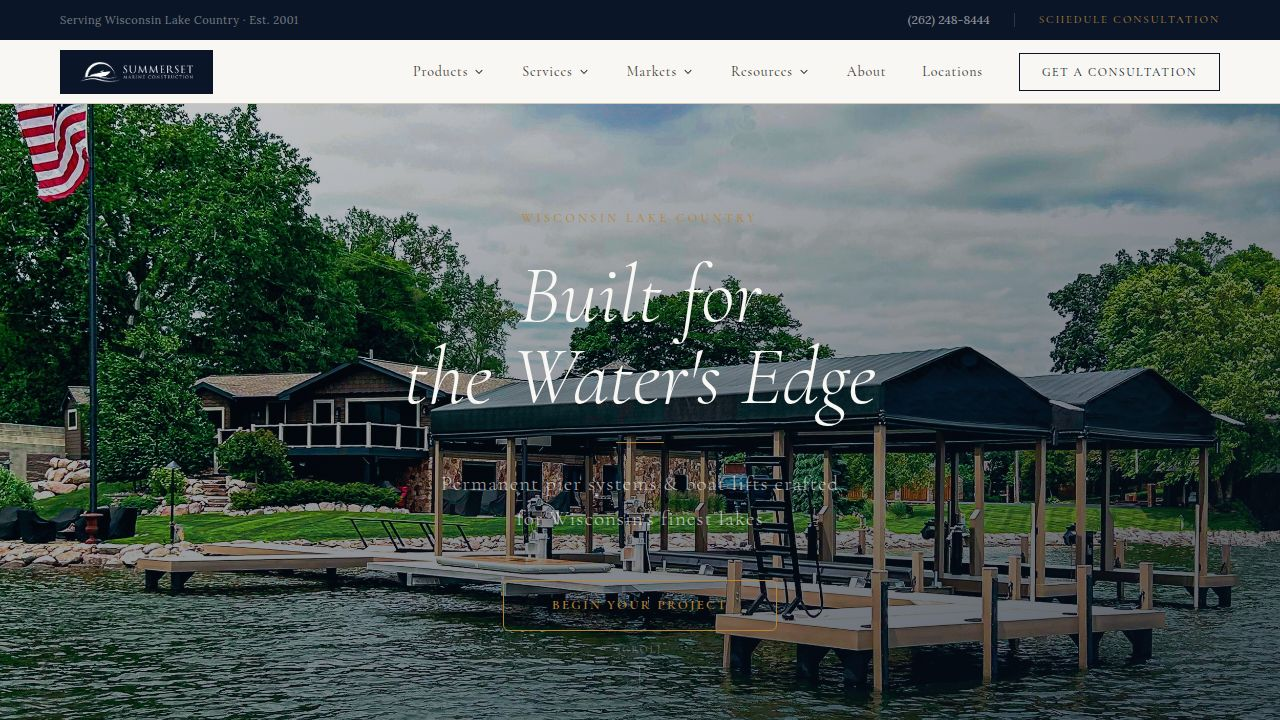
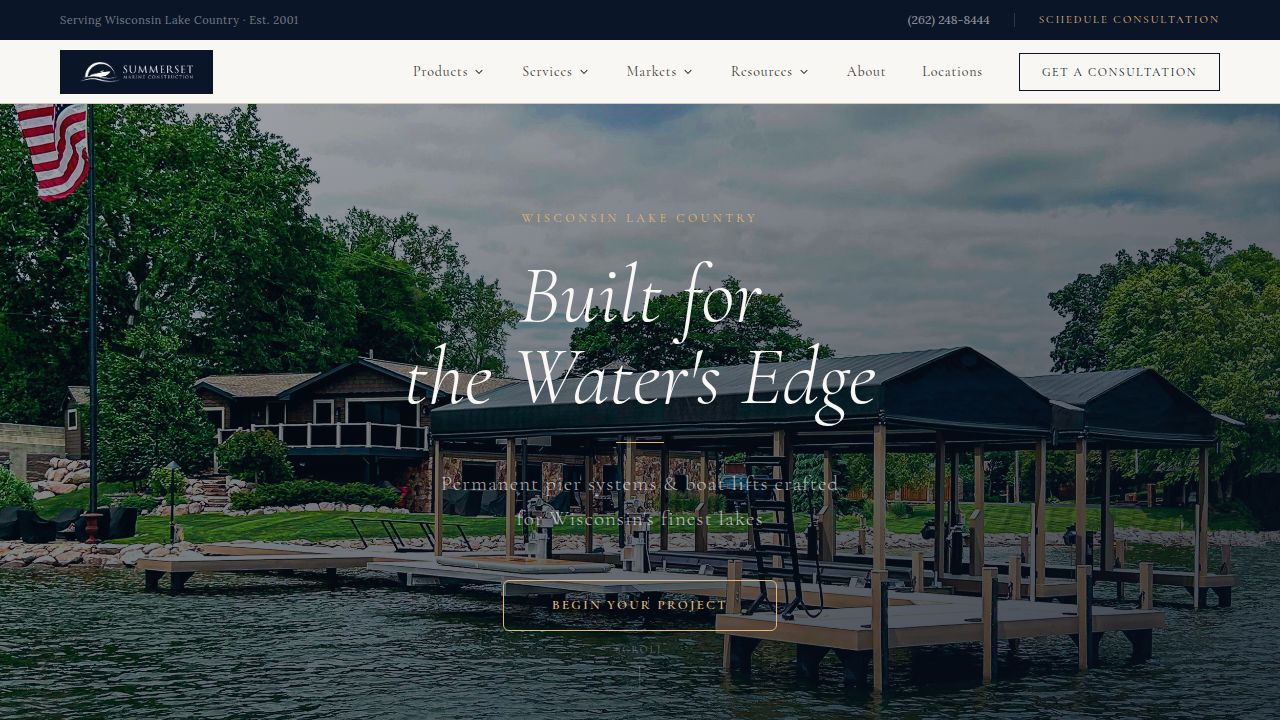
Add Google Reviews section to the website
Integrate Elfsight Google Reviews widget using environment variables.

Replit-Commit-Author: Agent
Replit-Commit-Session-Id: deab3bcd-a8cf-4099-8f03-b6609ab75af2
Replit-Commit-Checkpoint-Type: full_checkpoint
Replit-Commit-Event-Id: c97d79cd-ae3c-45bf-906b-d2676399f2b8
Replit-Commit-Screenshot-Url: https://storage.googleapis.com/screenshot-production-us-central1/0aebad9c-abc4-45a9-bc57-39a88c291de5/deab3bcd-a8cf-4099-8f03-b6609ab75af2/DXdJlIs
Replit-Helium-Checkpoint-Created: true

diff --git a/artifacts/summerset-marine/src/components/ui/GoogleReviews.tsx b/artifacts/summerset-marine/src/components/ui/GoogleReviews.tsx
@@ -1,0 +1,52 @@
+import { useEffect } from "react";
+import ContentPlaceholder from "./ContentPlaceholder";
+
+const WIDGET_ID = (
+  (import.meta.env.VITE_ELFSIGHT_GOOGLE_REVIEWS_ID as string | undefined) ?? ""
+).trim();
+
+const ELFSIGHT_SCRIPT_SRC = "https://elfsightcdn.com/platform.js";
+const ELFSIGHT_SCRIPT_ID = "elfsight-platform-script";
+
+/**
+ * True when the Google Reviews section should render at all:
+ * always in dev (shows a placeholder when unconfigured), only when
+ * VITE_ELFSIGHT_GOOGLE_REVIEWS_ID is set in production.
+ */
+export const googleReviewsEnabled = Boolean(WIDGET_ID) || import.meta.env.DEV;
+
+/**
+ * Google Reviews via Elfsight widget. Renders only when
+ * VITE_ELFSIGHT_GOOGLE_REVIEWS_ID is set (the widget ID from the Elfsight
+ * dashboard, e.g. "1a2b3c4d-...."). Loads the Elfsight platform script once.
+ */
+export function GoogleReviews({ className = "" }: { className?: string }) {
+  useEffect(() => {
+    if (!WIDGET_ID) return;
+    if (
+      document.getElementById(ELFSIGHT_SCRIPT_ID) ||
+      document.querySelector(`script[src="${ELFSIGHT_SCRIPT_SRC}"]`)
+    ) {
+      return;
+    }
+    const script = document.createElement("script");
+    script.id = ELFSIGHT_SCRIPT_ID;
+    script.src = ELFSIGHT_SCRIPT_SRC;
+    script.async = true;
+    document.body.appendChild(script);
+  }, []);
+
+  if (!WIDGET_ID) {
+    if (import.meta.env.DEV) {
+      return (
+        <ContentPlaceholder
+          label="Google Reviews widget (set VITE_ELFSIGHT_GOOGLE_REVIEWS_ID to the Elfsight Google Reviews widget ID)"
+          className={className}
+        />
+      );
+    }
+    return null;
+  }
+
+  return <div className={`elfsight-app-${WIDGET_ID} ${className}`.trim()} />;
+}

diff --git a/artifacts/summerset-marine/src/pages/index.tsx b/artifacts/summerset-marine/src/pages/index.tsx
@@ -5,6 +5,7 @@ import PageMeta from "@/components/seo/PageMeta";
 import JsonLd, { organizationSchema } from "@/components/seo/JsonLd";
 import Button from "@/components/ui/Button";
 import ContentPlaceholder from "@/components/ui/ContentPlaceholder";
+import { GoogleReviews, googleReviewsEnabled } from "@/components/ui/GoogleReviews";
 import {
   isSanityConfigured,
   sanityFetch,
@@ -350,6 +351,23 @@ export default function HomePage() {
           <div className="mx-auto mt-8 h-12 w-px bg-brand-border" />
         </div>
       </section>
+
+      {/* 6b. Google Reviews (Elfsight) — hidden entirely in production until the widget ID is set */}
+      {googleReviewsEnabled && (
+      <section className="border-t border-brand-border bg-brand-offwhite px-6 pb-16 md:px-30 md:pb-[88px]">
+        <div className="mx-auto max-w-[1080px]">
+          <div className="pt-14 pb-10 text-center">
+            <div className="mb-4 font-serif text-xs uppercase tracking-[0.28em] text-brand-gold">
+              From Our Clients
+            </div>
+            <h2 className="m-0 font-serif text-3xl font-light italic text-[#201f1d] md:text-[38px]">
+              Google Reviews
+            </h2>
+          </div>
+          <GoogleReviews />
+        </div>
+      </section>
+      )}
 
       {/* 7. Final CTA */}
       <section className="bg-brand-navy px-6 py-20 text-center md:px-30 md:py-[108px]">

diff --git a/replit.md b/replit.md
@@ -46,6 +46,7 @@ Markets: 7 market sections — lake-geneva, oconomowoc, door-county (with lake s
 - `artifacts/api-server/src/routes/netsuite-webhook.ts` — POST /api/netsuite-webhook (HMAC-SHA256 of raw body in `x-netsuite-signature`) + GET /api/inventory (falls back to live SuiteQL fetch when cache empty and NetSuite configured)
 - `artifacts/summerset-marine/src/lib/sanity.ts` — Sanity clients (`sanityFetch` CDN, `sanityLiveFetch` fresh) + all GROQ queries (blog, lake, market, FAQ, projects, testimonials, lift media, team)
 - `artifacts/api-server/data/inventory-cache.json` — lift inventory cache written by the webhook
+- `artifacts/summerset-marine/src/components/ui/GoogleReviews.tsx` — Elfsight Google Reviews embed on the home page; gated by `VITE_ELFSIGHT_GOOGLE_REVIEWS_ID` (section hidden in prod when unset, ContentPlaceholder in dev)
 - `artifacts/summerset-marine/src/components/ui/ContentPlaceholder.tsx` — yellow "PLACEHOLDER — SMC TO SUPPLY: {label}" block marking content the client must provide
 - `artifacts/summerset-marine/src/pages/products/lifts/inventory.tsx` — client-side inventory page: fetches `${BASE_URL}api/inventory`, optionally joins Sanity lift media on netsuiteItemId, type/condition/price filters, loading/empty/error states
 